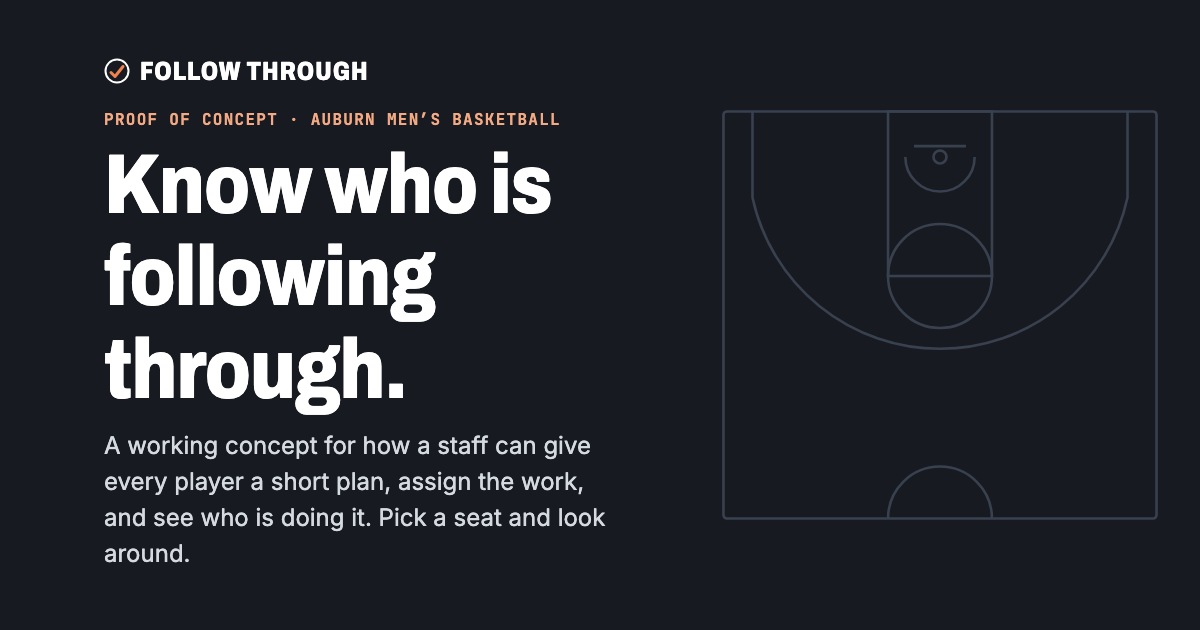
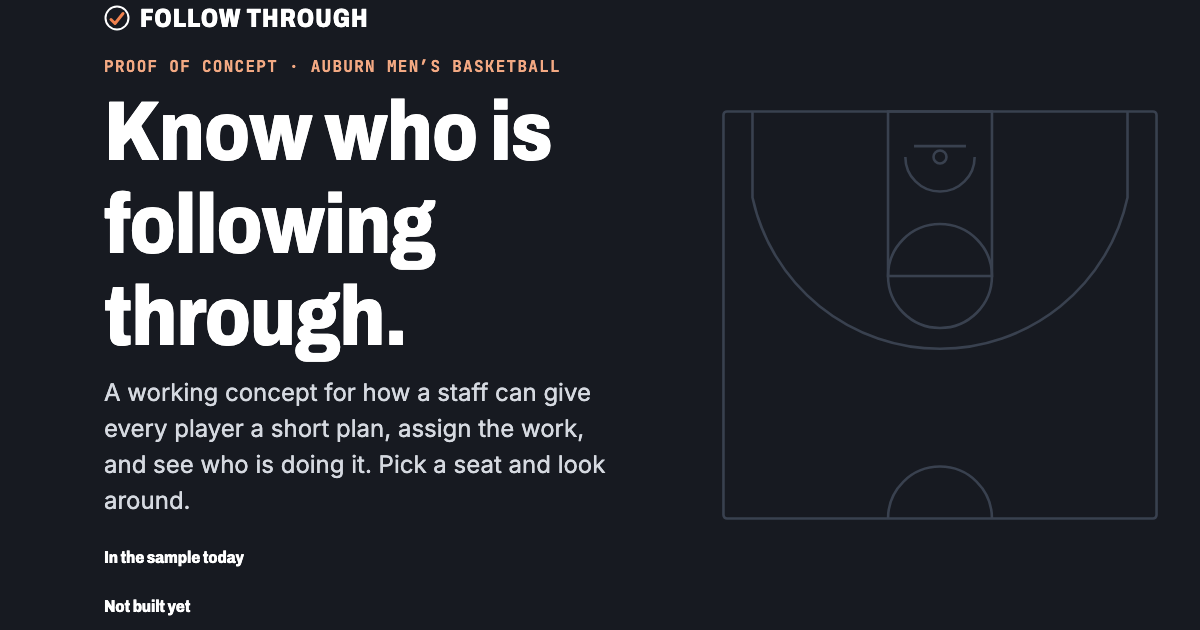
Follow Through: direct-to-dashboard links (?as=) and a what-is-in-the-sample section

Changed region(s): [[0.0617, 0.0905, 0.5242, 0.9048], [0.0925, 0.0, 0.3083, 0.0603], [0.0925, 0.9349, 0.1542, 0.9952]]

diff --git a/preview/follow-through/auburn/index.html b/preview/follow-through/auburn/index.html
@@ -191,6 +191,9 @@ svg.spark{width:100%;height:auto;display:block;color:var(--ink)}
 .intro ul{list-style:none;padding:0;margin:0;display:grid;gap:14px;max-width:54ch;color:#D5D9E0;font-size:14px}
 .intro ul b{color:#fff;display:block;font-size:15px}
 .intro .fine{color:#B9BFCA;font-size:12px;margin-top:26px;max-width:54ch}
+.avail{display:grid;gap:22px;margin-top:30px;max-width:54ch}
+.avail h2{font-size:17px;margin-bottom:8px}
+.intro .avail ul{list-style:disc;padding-left:18px;gap:6px}
 .intro .art{display:none}
 @media (min-width:720px){
   .rowbtn .full{display:inline} .rowbtn .short{display:none}
@@ -490,6 +493,21 @@ function vIntro(){
       <li><b>Weight and eating plans stay with medical staff.</b>The coach says what the team needs on the floor. Medical staff build the plan with the player.</li>
       <li><b>Players see who sees what.</b>Required work is visible to staff. Voluntary work stays private to the player.</li>
     </ul>
+    <div class="avail">
+      <div><h2>In the sample today</h2><ul>
+        <li>Team board with a week grid: who is behind, who has gone quiet, whose 1-on-1 is overdue</li>
+        <li>A plan for each player: focus areas, spots pinned on a half court, and a season line of meetings</li>
+        <li>Assigning required or suggested work, with a check on weekly hours</li>
+        <li>The player's phone view: daily checklist, weekly progress, and privacy choices</li>
+        <li>Body and fuel plans that only medical staff and the player can see, with an access log</li>
+        <li>Notes to players, a 1-on-1 log, and a printable 1-on-1 sheet</li>
+        <li>Your school's name, color and logo</li></ul></div>
+      <div><h2>Not built yet</h2><ul>
+        <li>Logins and separate accounts for staff and players</li>
+        <li>Your real roster, saved across devices (today everything stays in one browser)</li>
+        <li>Reminders and notifications</li>
+        <li>Hour rules beyond the NCAA Division I defaults, which you can edit by hand</li></ul></div>
+    </div>
     <p class="fine">${esc(CFG.fine)}</p>
   </div></section>`;
 }
@@ -512,7 +530,7 @@ function vBoard(){
     <li><button class="link" data-a="player" data-id="p8">Open Noah Castellan</button>, who is behind this week, has gone quiet, and is overdue for a 1-on-1.</li>
     <li><button class="link" data-a="player" data-id="p2">Open Deon Whitaker</button>, tap the court to pin a spot, then try assigning more work to see the hours check.</li>
     <li>Change “Viewing as” at the top to a player to see what lands on their phone.</li></ol>
-    <button class="btn sm ghost" data-a="notips">Got it</button></div>`:''}
+    <div class="row"><button class="btn sm ghost" data-a="notips">Got it</button><button class="link small" data-a="intro">What is in this sample</button></div></div>`:''}
   ${weekGrid()}
   <div class="row sp"><h2>Roster</h2><button class="btn accent" data-a="go" data-v="assign">Assign work</button></div>
   <div class="roster" style="margin-top:10px">${rows.map(({p,w,f,h})=>`
@@ -794,6 +812,9 @@ document.addEventListener('change',e=>{
   if(e.target.name==='phase'&&e.target.form?.dataset.f==='settings')e.target.form.elements.team.value=S.team[e.target.value];
 });
 document.addEventListener('input',e=>{if(e.target.closest('#assignForm'))assignPreview()});
+// ?as=coach|player|med opens straight into that seat and skips the intro
+const AS=new URLSearchParams(location.search).get('as');
+if(AS==='coach'||AS==='med'||AS==='player'){S.role=AS==='player'?{t:'player',pid:'p1'}:{t:AS};S.seen=true;save()}
 U.view=S.seen?NAV[S.role.t][0][0]:'intro';
 render();
 </script>

diff --git a/preview/follow-through/index.html b/preview/follow-through/index.html
@@ -191,6 +191,9 @@ svg.spark{width:100%;height:auto;display:block;color:var(--ink)}
 .intro ul{list-style:none;padding:0;margin:0;display:grid;gap:14px;max-width:54ch;color:#D5D9E0;font-size:14px}
 .intro ul b{color:#fff;display:block;font-size:15px}
 .intro .fine{color:#B9BFCA;font-size:12px;margin-top:26px;max-width:54ch}
+.avail{display:grid;gap:22px;margin-top:30px;max-width:54ch}
+.avail h2{font-size:17px;margin-bottom:8px}
+.intro .avail ul{list-style:disc;padding-left:18px;gap:6px}
 .intro .art{display:none}
 @media (min-width:720px){
   .rowbtn .full{display:inline} .rowbtn .short{display:none}
@@ -489,6 +492,21 @@ function vIntro(){
       <li><b>Weight and eating plans stay with medical staff.</b>The coach says what the team needs on the floor. Medical staff build the plan with the player.</li>
       <li><b>Players see who sees what.</b>Required work is visible to staff. Voluntary work stays private to the player.</li>
     </ul>
+    <div class="avail">
+      <div><h2>In the sample today</h2><ul>
+        <li>Team board with a week grid: who is behind, who has gone quiet, whose 1-on-1 is overdue</li>
+        <li>A plan for each player: focus areas, spots pinned on a half court, and a season line of meetings</li>
+        <li>Assigning required or suggested work, with a check on weekly hours</li>
+        <li>The player's phone view: daily checklist, weekly progress, and privacy choices</li>
+        <li>Body and fuel plans that only medical staff and the player can see, with an access log</li>
+        <li>Notes to players, a 1-on-1 log, and a printable 1-on-1 sheet</li>
+        <li>Your school's name, color and logo</li></ul></div>
+      <div><h2>Not built yet</h2><ul>
+        <li>Logins and separate accounts for staff and players</li>
+        <li>Your real roster, saved across devices (today everything stays in one browser)</li>
+        <li>Reminders and notifications</li>
+        <li>Hour rules beyond the NCAA Division I defaults, which you can edit by hand</li></ul></div>
+    </div>
     <p class="fine">${esc(CFG.fine)}</p>
   </div></section>`;
 }
@@ -511,7 +529,7 @@ function vBoard(){
     <li><button class="link" data-a="player" data-id="p8">Open Noah Castellan</button>, who is behind this week, has gone quiet, and is overdue for a 1-on-1.</li>
     <li><button class="link" data-a="player" data-id="p2">Open Deon Whitaker</button>, tap the court to pin a spot, then try assigning more work to see the hours check.</li>
     <li>Change “Viewing as” at the top to a player to see what lands on their phone.</li></ol>
-    <button class="btn sm ghost" data-a="notips">Got it</button></div>`:''}
+    <div class="row"><button class="btn sm ghost" data-a="notips">Got it</button><button class="link small" data-a="intro">What is in this sample</button></div></div>`:''}
   ${weekGrid()}
   <div class="row sp"><h2>Roster</h2><button class="btn accent" data-a="go" data-v="assign">Assign work</button></div>
   <div class="roster" style="margin-top:10px">${rows.map(({p,w,f,h})=>`
@@ -793,6 +811,9 @@ document.addEventListener('change',e=>{
   if(e.target.name==='phase'&&e.target.form?.dataset.f==='settings')e.target.form.elements.team.value=S.team[e.target.value];
 });
 document.addEventListener('input',e=>{if(e.target.closest('#assignForm'))assignPreview()});
+// ?as=coach|player|med opens straight into that seat and skips the intro
+const AS=new URLSearchParams(location.search).get('as');
+if(AS==='coach'||AS==='med'||AS==='player'){S.role=AS==='player'?{t:'player',pid:'p1'}:{t:AS};S.seen=true;save()}
 U.view=S.seen?NAV[S.role.t][0][0]:'intro';
 render();
 </script>
